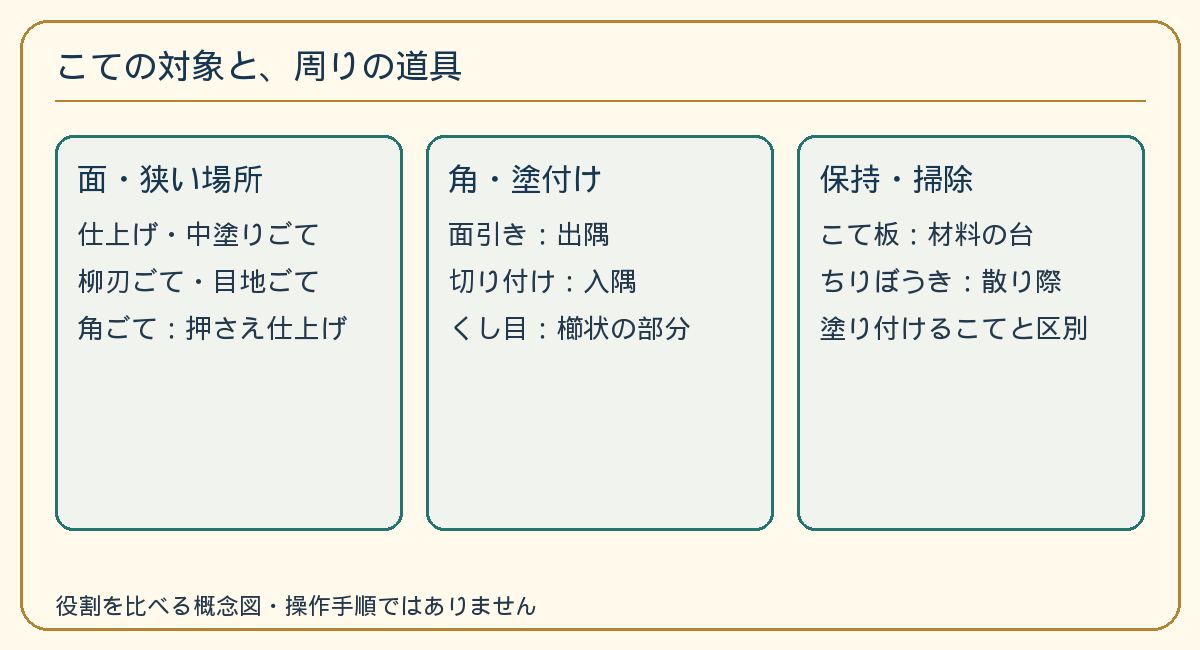
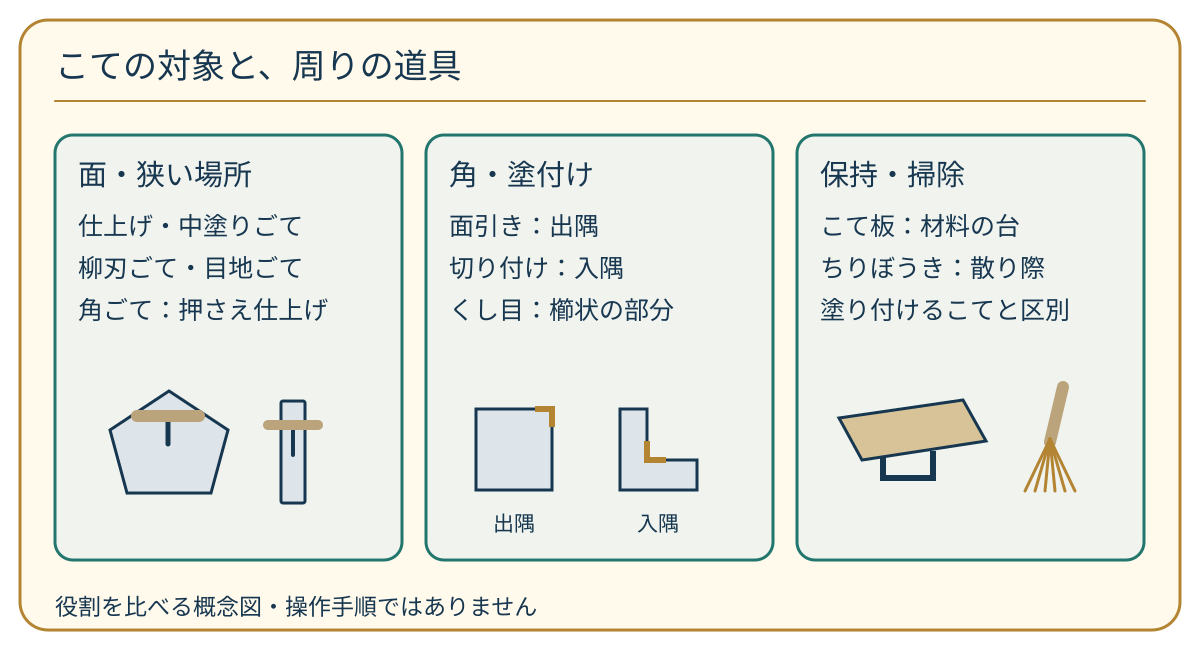
fix(kensetsu): illustrate wood references materials and corner trowels

diff --git a/scripts/kensetsu-authoring/draw-royal-differential-group04.py b/scripts/kensetsu-authoring/draw-royal-differential-group04.py
@@ -1,0 +1,66 @@
+"""Controlled grain, composition and plastering-geometry relationships."""
+from pathlib import Path
+helper=Path(__file__).with_name('draw-royal-differential-group01.py').read_text()
+exec(helper.split('# Clamp:')[0])
+OUT=ROOT/'docs/ssw-workspace/kensetsu/royal-differential-20261107/group04'
+OUT.mkdir(parents=True,exist_ok=True)
+
+def cards(headings,rows):
+    b=''.join(rect(x,135,347,425) for x in [55,426,797])
+    for x,h,ls in zip([78,449,820],headings,rows):
+        b+=text(x,185,h,29)
+        for i,l in enumerate(ls):b+=text(x,235+i*42,l,25)
+    return b
+
+b=cards(['切る方向','削る形','印と打撃'],[
+ ['縦引き：繊維に沿う','横引き：繊維を横切る','両刃：両側に用途別の刃'],
+ ['のみ：溝や穴を削る','かんな：表面を整える','きり：回転で穴をつくる'],
+ ['筋毛引き：平行な線','げんのう：打撃','用途を入れ替えない']])
+# Two equal blocks: the same grain direction, different cutting orientation.
+for x in [100,245]:
+    b+=rect(x,379,108,119,'#E8D6AE',NAVY,2)
+    for off in [15,35,55,75,95]:
+        b+=f'<path d="M{x+off} 384 Q{x+off-7} 433 {x+off} 493" fill="none" stroke="#BBA47B" stroke-width="2"/>'
+b+=line(154,387,154,489,TEAL,5)+line(251,437,347,437,GOLD,5)
+b+=text(154,534,'縦引き',21,'middle')+text(299,534,'横引き',21,'middle')
+# Workpiece profiles, not claims that one tool substitutes for another.
+b+='<path d="M462 413 H484 V438 H510 V413 H532 V493 H462 Z" fill="#E8D6AE" stroke="#173750" stroke-width="3"/>'
+b+=rect(552,442,70,51,'#E8D6AE',NAVY,2)+line(555,440,619,440,TEAL,5)
+b+=rect(650,413,80,80,'#E8D6AE',NAVY,2)+circle(690,453,18,'#FFFAEC',TEAL,3)
+b+='<path d="M674 407 A25 25 0 0 1 715 426 M715 426 L703 421 M715 426 L717 414" fill="none" stroke="#B38432" stroke-width="3"/>'
+# A reference edge and a parallel marked line are explicit, not freehand decoration.
+b+=rect(837,382,145,107,'#E8D6AE',NAVY,2)+line(840,414,978,414,TEAL,3)+line(840,382,978,382,GOLD,4)
+b+=rect(954,372,17,33,'#BBA47B',NAVY,1)+line(962,402,962,415,NAVY,3)
+b+=line(1047,409,1047,502,'#BBA47B',12)+rect(1017,393,60,25,'#DDE5EA',NAVY,9)
+save('b12','木の繊維・削る形・印の基準',b)
+
+b=rect(55,135,532,425)+rect(613,135,532,425)
+b+=text(78,185,'モルタル',31)+text(635,185,'漆喰',31)
+for x,ls in [(78,['セメント・水・砂','砂利を含む一般的な','コンクリートと区別']), (635,['消石灰が中心','糊・スサを組み合わせる','配合は製品ごとに確認'])]:
+    for i,l in enumerate(ls):b+=text(x,235+42*i,l,26)
+# A component relationship map intentionally carries no quantities/proportions.
+for x,label,w in [(84,'セメント',154),(263,'水',75),(363,'砂',75),(642,'消石灰',133),(800,'糊',75),(900,'スサ',110)]:
+    b+=rect(x,373,w,49,'#DDE5EA',TEAL,6)+text(x+w/2,405,label,23,'middle')
+for x in [161,300,400]:b+=f'<path d="M{x} 422 V450 H300 V471" fill="none" stroke="#22766D" stroke-width="2"/>'
+for x in [708,837,955]:b+=f'<path d="M{x} 422 V450 H837 V471" fill="none" stroke="#22766D" stroke-width="2"/>'
+b+=rect(208,473,185,51,'#F5EAD1',GOLD,7)+text(300,508,'モルタル',25,'middle')
+b+=rect(755,473,164,51,'#F5EAD1',GOLD,7)+text(837,508,'漆喰',25,'middle')
+save('b13','左官材料を主な成分から分ける',b)
+
+b=cards(['面・狭い場所','角・塗付け','保持・掃除'],[
+ ['仕上げ・中塗りごて','柳刃ごて・目地ごて','角ごて：押さえ仕上げ'],
+ ['面引き：出隅','切り付け：入隅','くし目：櫛状の部分'],
+ ['こて板：材料の台','ちりぼうき：散り際','塗り付けるこてと区別']])
+# Blade face shapes are controlled geometry, with neck/handle separated.
+b+='<path d="M110 430 L169 391 L228 430 L211 493 H127 Z" fill="#DDE5EA" stroke="#173750" stroke-width="3"/>'
+b+=line(168,444,168,418,NAVY,5)+line(137,416,199,416,'#BBA47B',12)
+b+=rect(281,401,24,102,'#DDE5EA',NAVY,2)+line(293,455,293,426,NAVY,4)+line(268,425,318,425,'#BBA47B',10)
+# Solid workpiece distinguishes an outside corner from an inside recess.
+b+='<path d="M476 409 H552 V490 H476 Z" fill="#DDE5EA" stroke="#173750" stroke-width="3"/><path d="M535 409 H552 V427" fill="none" stroke="#B38432" stroke-width="6"/>'
+b+='<path d="M620 409 H647 V460 H697 V490 H620 Z" fill="#DDE5EA" stroke="#173750" stroke-width="3"/><path d="M647 441 V460 H666" fill="none" stroke="#B38432" stroke-width="6"/>'
+b+=text(514,531,'出隅',21,'middle')+text(658,531,'入隅',21,'middle')
+# Board underside grip versus a separate brush; no application procedure shown.
+b+='<path d="M839 418 L963 400 L986 441 L862 460 Z" fill="#D8C398" stroke="#173750" stroke-width="3"/><path d="M883 457 V478 H933 V451" fill="none" stroke="#173750" stroke-width="6"/>'
+b+=line(1063,387,1050,442,'#BBA47B',12)
+for dx in [-25,-15,-5,5,15,25]:b+=line(1050,439,1050+dx,491,GOLD,3)
+save('b14','こての対象と、周りの道具',b)
